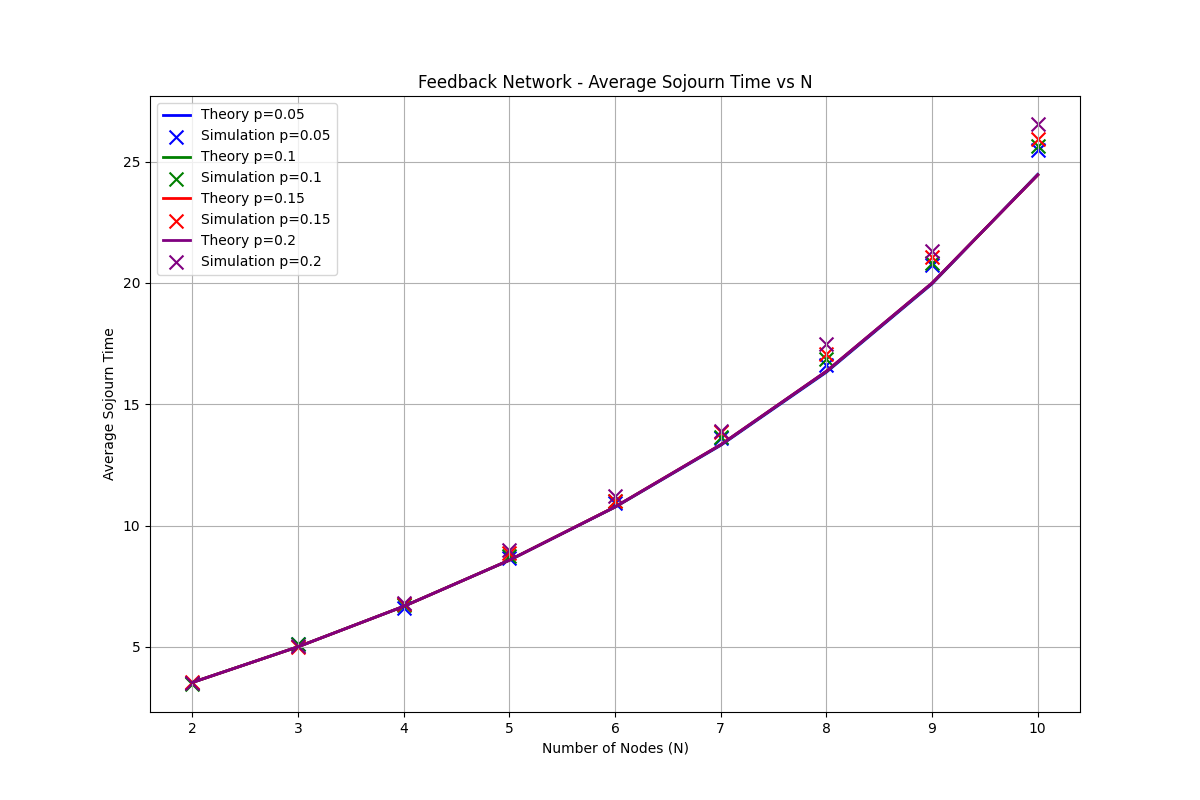
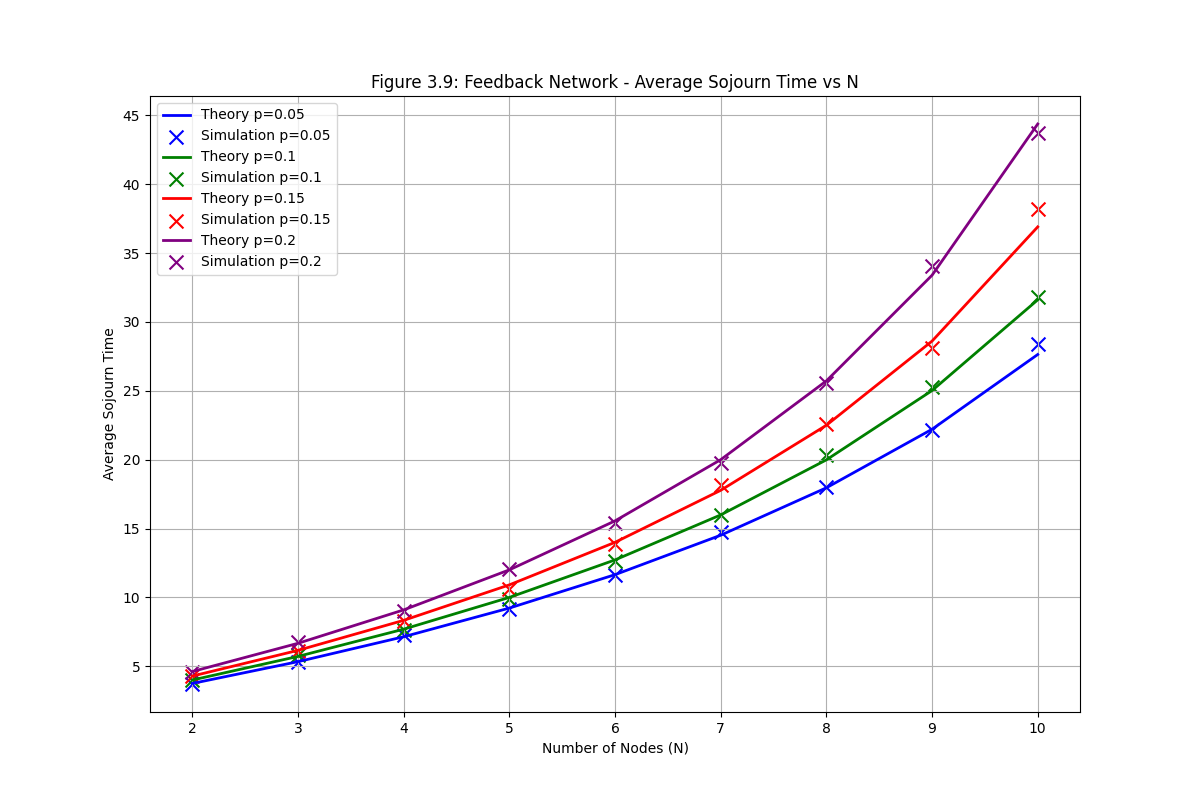
feat: update feedback node simulation parameters and theoretical delay calculations

diff --git a/n_node_with_feedback.py b/n_node_with_feedback.py
@@ -7,7 +7,7 @@ from scipy.special import gammainc
 
 # --- MODEL PARAMETERS FOR SECTION 3.3.1 ---
 mu = 1.0  # Service rate
-lambda_arrival = 0.05  # Arrival rate
+lambda_arrival = 0.05  # External arrival rate per node
 W = 50.0  # Timeout period
 N_values = range(2, 11)
 p_values = [0.05, 0.1, 0.15, 0.2]
@@ -30,31 +30,50 @@ def solve_feedback_network_theory(N, mu, lambda_arr, p, W):
         e_v = 0
         e_d_succ_num = 0
         e_d_fail_num = 0
-        max_k = 150
+        max_k = 200
+        
         for k in range(1, max_k):
-            term = ((1 - p) ** k) * ((N / (N + 1)) ** (k - 1))
+            # term: prob of reaching node k without attack/timeout in 1..k-1 and continuing k-1 times
+            # Note: attack Discovery happens AFTER service. 
+            # So to reach node k, we must have NOT been attacked in nodes 1..k-1.
+            term = ((1 - p) ** (k - 1)) * ((N / (N + 1)) ** (k - 1))
             f_k_minus_1 = get_erlang_cdf(k - 1, gamma_rate, W)
             f_k = get_erlang_cdf(k, gamma_rate, W)
             f_k_plus_1 = get_erlang_cdf(k + 1, gamma_rate, W)
-            p_succ += term * (1 / (N + 1)) * f_k
+            
+            # 1. Expected visits reaching the server (includes the one where it might be attacked/timeout)
             e_v += term * f_k_minus_1
-            e_d_succ_num += term * (1 / (N + 1)) * (k / gamma_rate) * f_k_plus_1
-            p_attack_k = ((1-p)**(k-1)) * p * ((N/(N+1))**(k-1)) * f_k_minus_1
-            e_d_fail_num += p_attack_k * ((k-1) / gamma_rate)
-            p_timeout_k = term * (f_k_minus_1 - f_k)
+            
+            # 2. Probability of success at visit k
+            # Must NOT be attacked at k, MUST choose exit, MUST NOT timeout at k
+            p_succ_k = term * (1 - p) * (1 / (N + 1)) * f_k
+            p_succ += p_succ_k
+            e_d_succ_num += p_succ_k * (k / gamma_rate) * (f_k_plus_1 / f_k if f_k > 0 else 1)
+            
+            # 3. Probability of failure at visit k (Attack or Timeout)
+            # Attack at k: prob reach k * attacked at k
+            p_attack_k = term * p * f_k_minus_1
+            e_d_fail_num += p_attack_k * (k / gamma_rate) # Spent visit k
+            
+            # Timeout at k: prob reach k * not attacked at k * (not exit or exit) * timeout
+            # prob not exit or exit = 1.
+            # Timeout happens if S_k > W given S_{k-1} <= W
+            p_timeout_k = term * (1 - p) * (f_k_minus_1 - f_k)
             e_d_fail_num += p_timeout_k * (k / gamma_rate)
+            
         return p_succ, e_v, e_d_succ_num, e_d_fail_num
 
+    # Fixed-point iteration
     lambda_star_sol = lambda_arr * (N + 1)
     damping = 0.5
-    for _ in range(300):
+    for _ in range(500):
         if lambda_star_sol >= mu * 0.999:
             return None, None, None
         p_succ, e_v, e_d_succ_num, e_d_fail_num = get_metrics(lambda_star_sol)
         if p_succ <= 1e-6:
             return None, None, None
         next_val = lambda_arr * (e_v / p_succ)
-        if abs(next_val - lambda_star_sol) < 1e-6:
+        if abs(next_val - lambda_star_sol) < 1e-7:
             lambda_star_sol = next_val
             break
         lambda_star_sol = damping * next_val + (1 - damping) * lambda_star_sol
@@ -75,7 +94,6 @@ class NetworkPacket:
         self.original_arrival_time = arrival_time
         self.attempt_start_time = arrival_time
         self.current_node = entry_node
-        self.path_history = [entry_node]
 
 def run_simulation(N, mu, lambda_arr, p, W):
     def sim_func():
@@ -87,44 +105,45 @@ def run_simulation(N, mu, lambda_arr, p, W):
         def node_process(env, node_id, queue, server):
             while True:
                 packet = yield queue.get()
-                if random.random() < p:
-                    new_p = NetworkPacket(packet.packet_id + "_retx", packet.entry_node, env.now)
-                    new_p.original_arrival_time = packet.original_arrival_time
-                    new_p.attempt_start_time = env.now
-                    queues[packet.entry_node].put(new_p)
-                    continue
                 with server.request() as req:
                     yield req
+                    # Service time
                     yield env.timeout(random.expovariate(mu))
+                    
+                    # 1. Attack discovery (After Service)
+                    if random.random() < p:
+                        new_p = NetworkPacket(packet.packet_id + "_retx", packet.entry_node, env.now)
+                        new_p.original_arrival_time = packet.original_arrival_time
+                        new_p.attempt_start_time = env.now
+                        queues[packet.entry_node].put(new_p)
+                        continue
+                        
+                    # 2. Timeout check (After Service)
                     if (env.now - packet.attempt_start_time) > W:
                         new_p = NetworkPacket(packet.packet_id + "_timeout", packet.entry_node, env.now)
                         new_p.original_arrival_time = packet.original_arrival_time
                         new_p.attempt_start_time = env.now
                         queues[packet.entry_node].put(new_p)
                         continue
+                        
+                    # 3. Routing decision
                     rand_choice = random.random()
-                    cumulative_prob = 0
                     transition_prob = 1 / (N + 1)
-                    destination = None
-                    for next_node in range(N):
-                        cumulative_prob += transition_prob
-                        if rand_choice < cumulative_prob:
-                            destination = next_node
-                            break
-                    if destination is None:
-                        final_delay = env.now - packet.original_arrival_time
-                        packet_delays.append(final_delay)
+                    if rand_choice < transition_prob:
+                        # Exit system
+                        packet_delays.append(env.now - packet.original_arrival_time)
                     else:
-                        packet.current_node = destination
-                        packet.path_history.append(destination)
-                        queues[destination].put(packet)
+                        # Continue to random node
+                        dest = random.randint(0, N-1)
+                        packet.current_node = dest
+                        queues[dest].put(packet)
 
         def packet_generator(env, node_id):
             packet_counter = 0
             while True:
                 yield env.timeout(random.expovariate(lambda_arr))
-                p = NetworkPacket(f"N{node_id}P{packet_counter}", node_id, env.now)
-                queues[node_id].put(p)
+                p_obj = NetworkPacket(f"N{node_id}P{packet_counter}", node_id, env.now)
+                queues[node_id].put(p_obj)
                 packet_counter += 1
 
         for i in range(N):
@@ -155,20 +174,20 @@ def plot_sojourn_time_vs_N_varying_p():
             print(f"Processing N={N}, p={p}...")
             avg_sojourn, _, _ = solve_feedback_network_theory(N, mu, lambda_arrival, p, W)
             theory_times.append(avg_sojourn if avg_sojourn is not None else np.inf)
-            if avg_sojourn is not None and avg_sojourn != np.inf:
-                sim_times.append(run_multiple_simulations(N, mu, lambda_arrival, p, W, replications))
-            else:
-                sim_times.append(np.inf)
+            sim_val = run_multiple_simulations(N, mu, lambda_arrival, p, W, replications)
+            sim_times.append(sim_val)
             all_results.append({"N": int(N), "p": float(p), "theory": float(theory_times[-1]) if theory_times[-1] != np.inf else "inf", "sim": float(sim_times[-1]) if sim_times[-1] != np.inf else "inf"})
             print(f"  Result: Theory={theory_times[-1]:.4f}, Sim={sim_times[-1]:.4f}")
+        
         valid = [i for i, t in enumerate(theory_times) if t != np.inf]
         if valid:
             v_N = [list(N_values)[i] for i in valid]
             plt.plot(v_N, [theory_times[i] for i in valid], color=colors[idx], linestyle='-', label=f'Theory p={p}', linewidth=2)
             plt.scatter(v_N, [sim_times[i] for i in valid], color=colors[idx], marker='x', s=100, label=f'Simulation p={p}')
+            
     plt.xlabel('Number of Nodes (N)')
     plt.ylabel('Average Sojourn Time')
-    plt.title('Feedback Network - Average Sojourn Time vs N')
+    plt.title('Figure 3.9: Feedback Network - Average Sojourn Time vs N')
     plt.legend()
     plt.grid(True)
     plt.savefig('section_3_3_1_sojourn_vs_N_varying_p.png')

diff --git a/n_node_feedforward.py b/n_node_feedforward.py
@@ -424,7 +424,7 @@ def plot_throughput_analysis():
     plt.title('Section 3.3.2: Tandem Network - Throughput vs N (Varying Attack Probability)')
     plt.legend()
     plt.grid(True)
-    plt.ylim(bottom=0)
+    #plt.ylim(bottom=0)
     plt.savefig('section_3_3_2_tandem_throughput_vs_N.png', dpi=300, bbox_inches='tight')
     plt.show()
 
